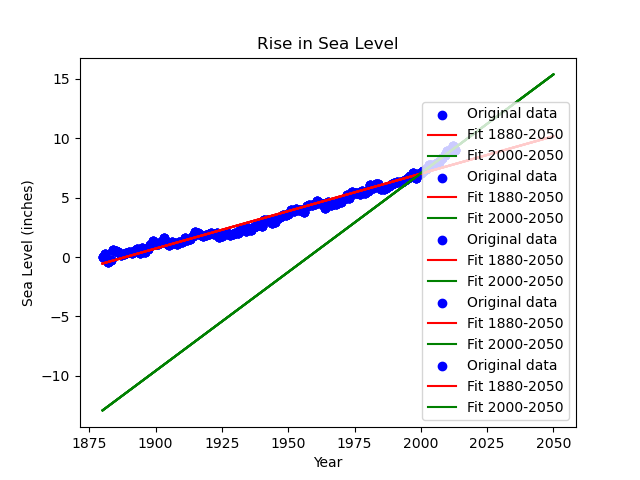
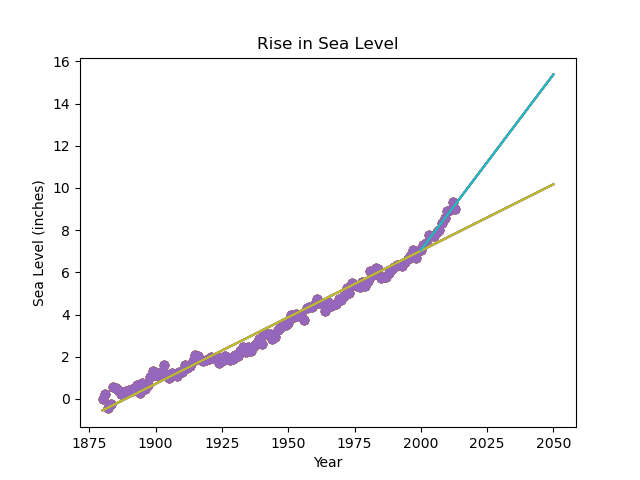
Solution Update

diff --git a/sea_level_predictor.py b/sea_level_predictor.py
@@ -4,50 +4,34 @@ from scipy.stats import linregress
 
 
 def draw_plot():
-    # Load data
+    # Read data from file
     df = pd.read_csv("epa-sea-level.csv")
 
     # Create scatter plot
-    plt.scatter(
-        df["Year"], df["CSIRO Adjusted Sea Level"], color="blue", label="Original data"
-    )
+    plt.scatter(df["Year"], df["CSIRO Adjusted Sea Level"])
 
-    # Perform linear regression on the entire dataset
-    slope, intercept, r_value, p_value, std_err = linregress(
-        df["Year"], df["CSIRO Adjusted Sea Level"]
-    )
-
-    # Create a range of years from the start year to 2050
-    years_extended = pd.Series(range(1880, 2051))
-
-    # Calculate the line of best fit
-    sea_level_predicted = intercept + slope * years_extended
-
-    # Plot the line of best fit
-    plt.plot(years_extended, sea_level_predicted, color="red", label="Fit 1880-2050")
-
-    # Create a dataframe from the year 2000 to the most recent year
-    df_recent = df[df["Year"] >= 2000]
-
-    # Perform linear regression on the recent dataset
-    slope_recent, intercept_recent, r_value_recent, p_value_recent, std_err_recent = (
-        linregress(df_recent["Year"], df_recent["CSIRO Adjusted Sea Level"])
-    )
-
-    # Calculate the line of best fit for the recent data
-    sea_level_predicted_recent = intercept_recent + slope_recent * years_extended
-
-    # Plot the line of best fit for recent data
+    # Create first line of best fit
+    lr_1880_2012 = linregress(df["Year"], df["CSIRO Adjusted Sea Level"])
     plt.plot(
-        years_extended, sea_level_predicted_recent, color="green", label="Fit 2000-2050"
+        range(1880, 2051, 1),
+        lr_1880_2012.slope * range(1880, 2051, 1) + lr_1880_2012.intercept,
+    )
+
+    # Create second line of best fit
+    lr_2000_2012 = linregress(
+        df.query("Year >= 2000")["Year"],
+        df.query("Year >= 2000")["CSIRO Adjusted Sea Level"],
+    )
+    plt.plot(
+        range(2000, 2051, 1),
+        lr_2000_2012.slope * range(2000, 2051, 1) + lr_2000_2012.intercept,
     )
 
     # Add labels and title
-    plt.xlabel("Year")
-    plt.ylabel("Sea Level (inches)")
     plt.title("Rise in Sea Level")
-    plt.legend()
+    plt.ylabel("Sea Level (inches)")
+    plt.xlabel("Year")
 
-    # Save plot and return data for testing
+    # Save plot and return data for testing (DO NOT MODIFY)
     plt.savefig("sea_level_plot.png")
     return plt.gca()
